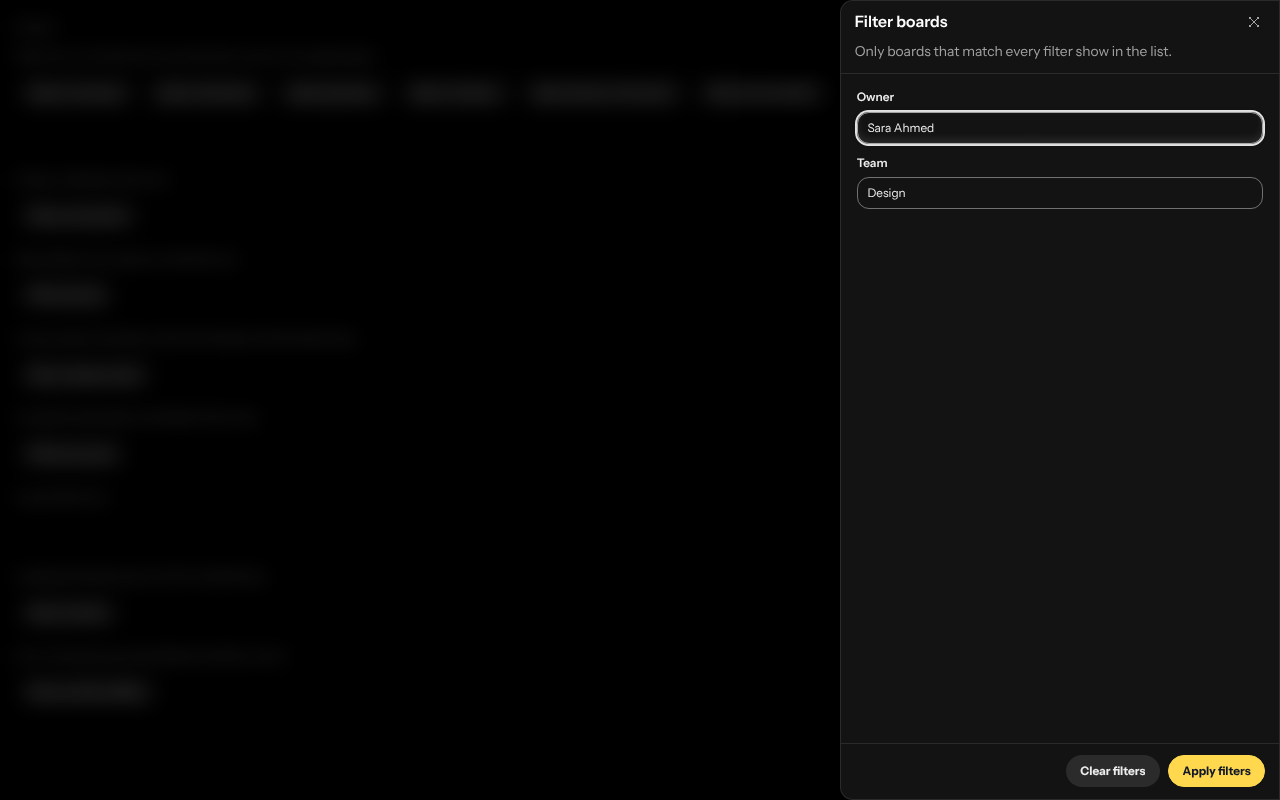
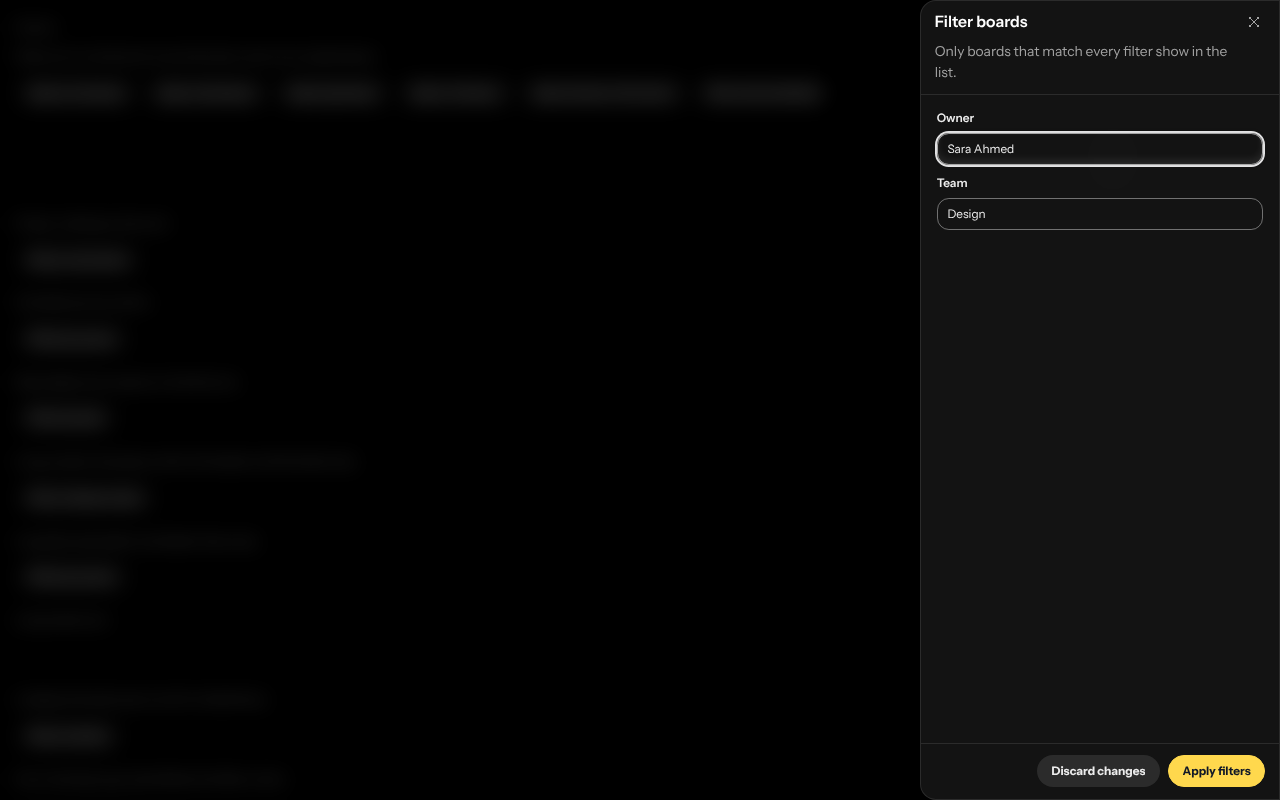
fix: Drawer
The close part is the system CloseButton. Arabic close name
إغلاق الشريط الجانبي, not the board word اللوحة.

Claude-Session: https://claude.ai/code/session_01ErLBsZcfuz1s1NKys7fajT

Changed region(s): [[0.6562, 0.0, 1.0, 0.2812], [0.8125, 0.9375, 0.9062, 0.9688]]

diff --git a/packages/react/src/components/Drawer/Drawer.tsx b/packages/react/src/components/Drawer/Drawer.tsx
@@ -18,7 +18,7 @@
 //           <div data-part="header">
 //             <h2 data-part="title">
 //             <p data-part="description">
-//             <button data-ds="icon-button" data-part="close">
+//             <button data-ds="close-button" data-part="close">
 //           <div data-part="body">                   scrolls
 //           <div data-part="footer">
 import {
@@ -40,7 +40,7 @@ import type { OverlaySize } from '@the-system/shared';
 import { useTheme } from '../../theme/hooks';
 import { DialogBody, DialogFooter, type DialogBodyProps, type DialogFooterProps } from '../Dialog';
 import { DialogBase, assignRef, type DialogBaseState } from '../Dialog/DialogBase';
-import { IconButton } from '../IconButton';
+import { CloseButton } from '../CloseButton';
 import { useControllable } from '../../internal/useControllable';
 
 export type DrawerSize = Extract<OverlaySize, 'sm' | 'md' | 'lg' | 'xl'>;
@@ -48,7 +48,7 @@ export type DrawerSide = 'start' | 'end';
 
 const drawerLabels = {
   en: { close: 'Close drawer' },
-  ar: { close: 'إغلاق اللوحة الجانبية' },
+  ar: { close: 'إغلاق الشريط الجانبي' },
 } as const;
 
 /** True for Arabic, the language with its own built in labels. */
@@ -196,8 +196,8 @@ function flatten(children: ReactNode): ReactNode[] {
 
 /**
  * Builds the header band of a Drawer or a Sheet: the title and the
- * description lifted out of the children (or from props), then the close
- * IconButton. Returns the header and the remaining children.
+ * description lifted out of the children (or from props), then the
+ * CloseButton. Returns the header and the remaining children.
  */
 export function splitHeader(options: {
   children: ReactNode;
@@ -223,7 +223,7 @@ export function splitHeader(options: {
       {titleNode}
       {descriptionNode}
       <RadixDialog.Close asChild>
-        <IconButton data-part="close" icon="close" label={options.closeLabel} size="sm" disabled={options.closeDisabled} />
+        <CloseButton data-part="close" label={options.closeLabel} size="sm" disabled={options.closeDisabled} />
       </RadixDialog.Close>
     </div>
   );

diff --git a/packages/react/src/components/Drawer/Drawer.test.tsx b/packages/react/src/components/Drawer/Drawer.test.tsx
@@ -73,6 +73,8 @@ describe('Drawer', () => {
     expect(part('panel')).toBe(panel);
     expect(Array.from(panel.children).map((c) => c.getAttribute('data-part'))).toEqual(['header', 'body', 'footer']);
     expect(Array.from(part('header')?.children ?? []).map((c) => c.getAttribute('data-part'))).toEqual(['title', 'description', 'close']);
+    // The close part is the system CloseButton, the same control as Toast and Alert.
+    expect(part('close')?.getAttribute('data-ds')).toBe('close-button');
     expect(screen.getByRole('dialog', { name: 'Filters' })).toBe(panel);
     expect(document.getElementById(panel.getAttribute('aria-describedby') ?? '')?.textContent).toBe('Boards that match every filter.');
     expect(document.body.querySelector('[title]')).toBeNull();
@@ -175,7 +177,7 @@ describe('Drawer', () => {
       </Theme>,
     );
     await screen.findByRole('dialog');
-    expect(screen.getByRole('button', { name: 'إغلاق اللوحة الجانبية' })).not.toBeNull();
+    expect(screen.getByRole('button', { name: 'إغلاق الشريط الجانبي' })).not.toBeNull();
     expect(rootEl()?.parentElement?.getAttribute('dir')).toBe('rtl');
   });
 
